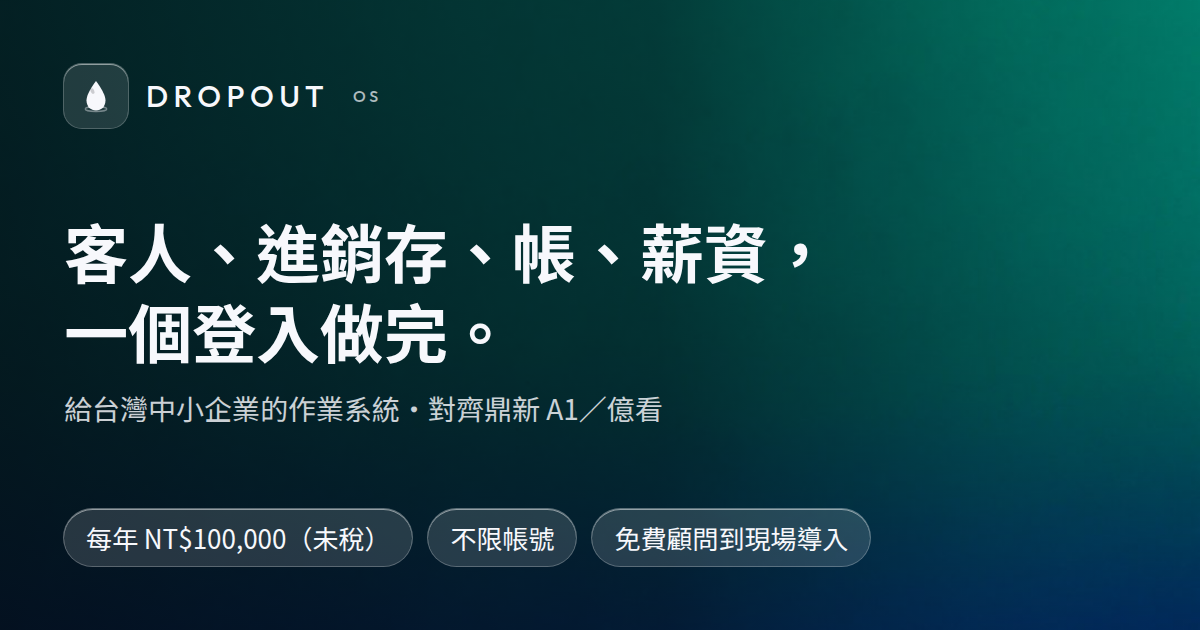
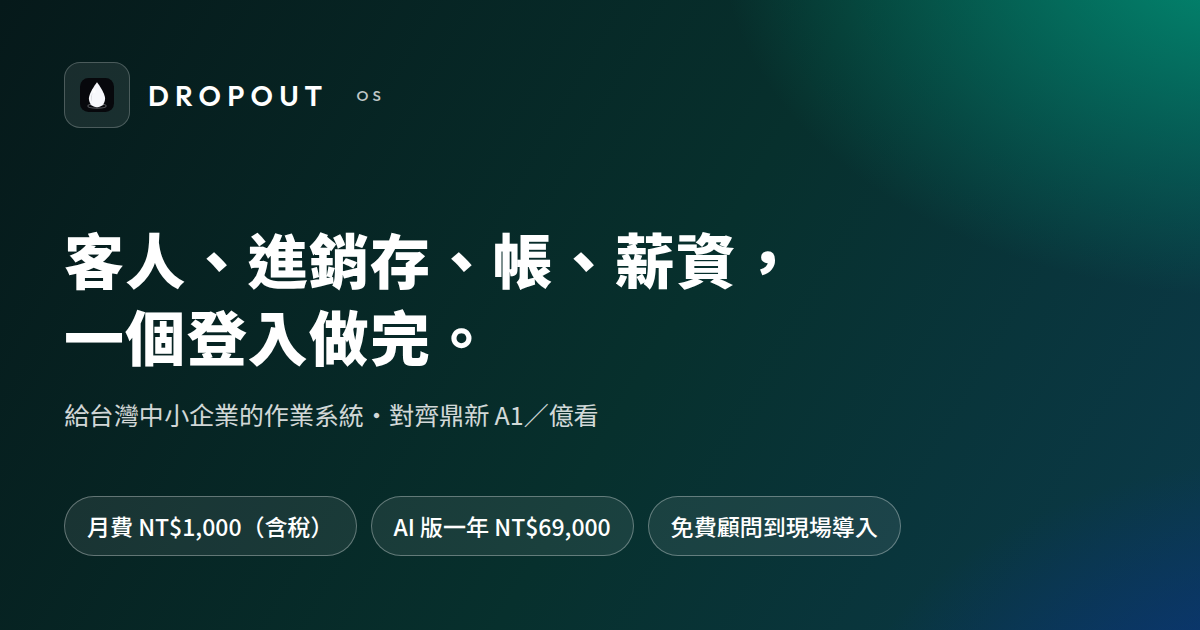
Serve site screenshots as WebP and redraw the share image with the current prices.
Twelve screenshots drop from 2.6 MB to 0.9 MB at the same 2560x1600. The share image said NT$100,000 before tax; it now shows NT$1,000 a month and NT$69,000 a year for AI.

diff --git a/web/components/SiteSections.tsx b/web/components/SiteSections.tsx
@@ -6,10 +6,10 @@ import { ERP_PARITY, SALES_STEPS } from "@/lib/erp";
 const TONE: Record<ModuleStatus, string> = { ready: "ok", setup: "warn", pilot: "muted" };
 
 const SHOTS = [
-  { id: "sales", label: "生意：一張單一個按鈕", light: "/shots/sales-white.png", dark: "/shots/sales-black.png" },
-  { id: "reports", label: "儀表板：營收、毛利、前十大客人", light: "/shots/reports-white.png", dark: "/shots/reports-black.png" },
-  { id: "finance", label: "收錢：帳齡與營業稅", light: "/shots/finance-white.png", dark: "/shots/finance-black.png" },
-  { id: "hr", label: "人事：打卡、請假、核准", light: "/shots/hr-white.png", dark: "/shots/hr-black.png" },
+  { id: "sales", label: "生意：一張單一個按鈕", light: "/shots/sales-white.webp", dark: "/shots/sales-black.webp" },
+  { id: "reports", label: "儀表板：營收、毛利、前十大客人", light: "/shots/reports-white.webp", dark: "/shots/reports-black.webp" },
+  { id: "finance", label: "收錢：帳齡與營業稅", light: "/shots/finance-white.webp", dark: "/shots/finance-black.webp" },
+  { id: "hr", label: "人事：打卡、請假、核准", light: "/shots/hr-white.webp", dark: "/shots/hr-black.webp" },
 ] as const;
 
 export function SectionTitle({ title, children }: { kicker?: string; title: string; children?: ReactNode }) {

diff --git a/web/app/consulting/page.tsx b/web/app/consulting/page.tsx
@@ -37,8 +37,8 @@ export default async function ConsultingPage() {
             </div>
             <p className="text-xs text-cream-dim">{AI_USAGE_NOTE}</p>
             <figure className="site-shot pt-2">
-              <img src="/shots/today-white.png" alt="今天的工作畫面" width={1280} height={800} className="site-shot-light" />
-              <img src="/shots/today-black.png" alt="今天的工作畫面" width={1280} height={800} className="site-shot-dark" />
+              <img src="/shots/today-white.webp" alt="今天的工作畫面" width={1280} height={800} className="site-shot-light" />
+              <img src="/shots/today-black.webp" alt="今天的工作畫面" width={1280} height={800} className="site-shot-dark" />
             </figure>
             <p className="text-sm text-cream-dim">
               <Link href="/pricing" className="underline underline-offset-4 hover:text-cream">

diff --git a/web/app/industries/page.tsx b/web/app/industries/page.tsx
@@ -28,8 +28,8 @@ export default function IndustriesPage() {
             </div>
           </div>
           <figure className="site-shot">
-            <img src="/shots/today-white.png" alt="產業包工作畫面" width={1280} height={800} className="site-shot-light" />
-            <img src="/shots/today-black.png" alt="產業包工作畫面" width={1280} height={800} className="site-shot-dark" />
+            <img src="/shots/today-white.webp" alt="產業包工作畫面" width={1280} height={800} className="site-shot-light" />
+            <img src="/shots/today-black.webp" alt="產業包工作畫面" width={1280} height={800} className="site-shot-dark" />
           </figure>
         </header>
         <div className="space-y-8">
